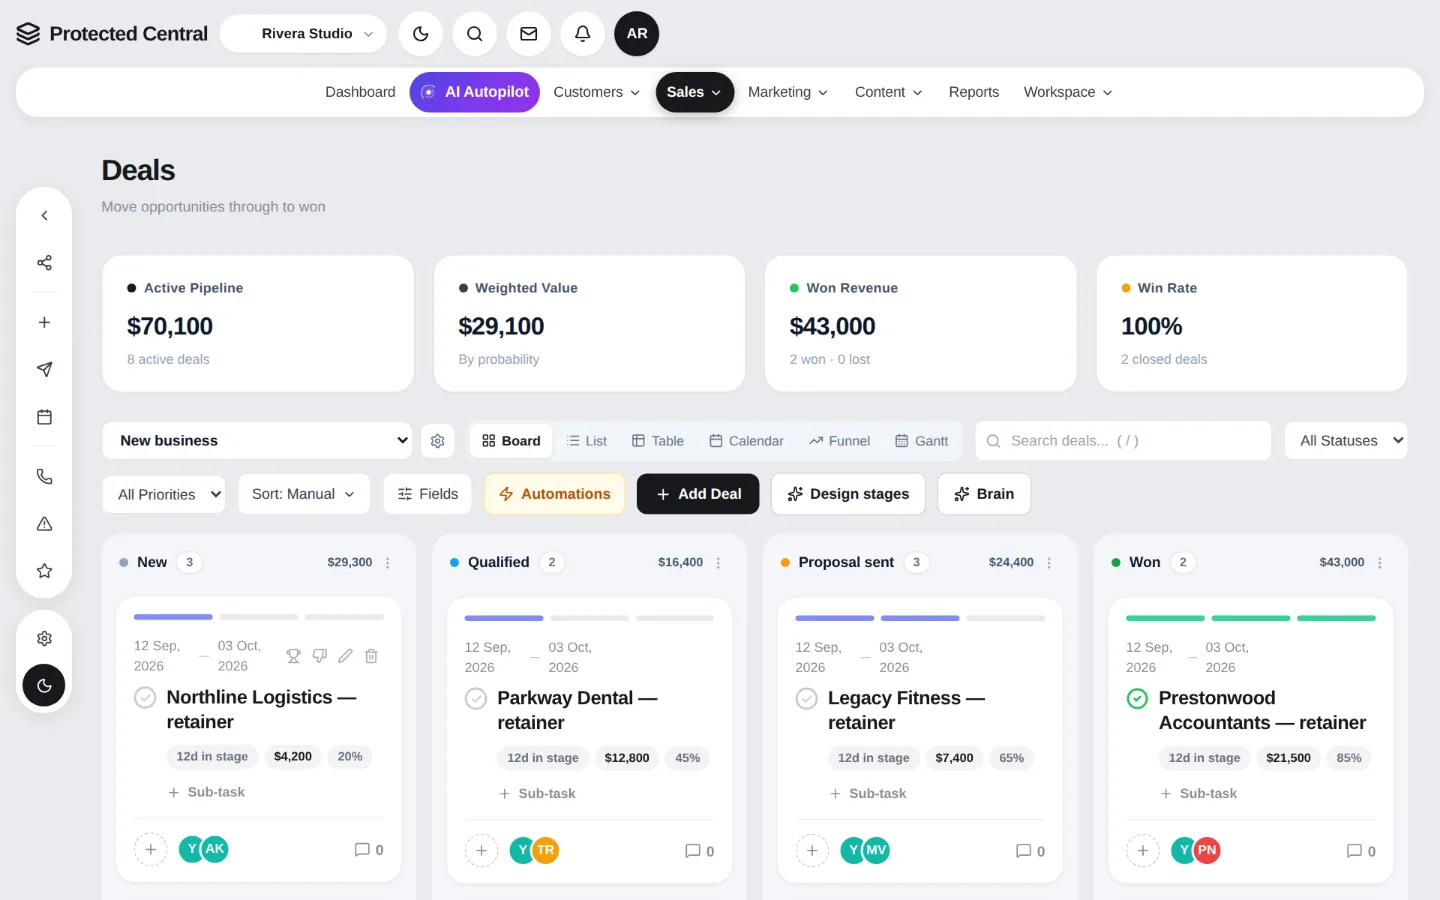
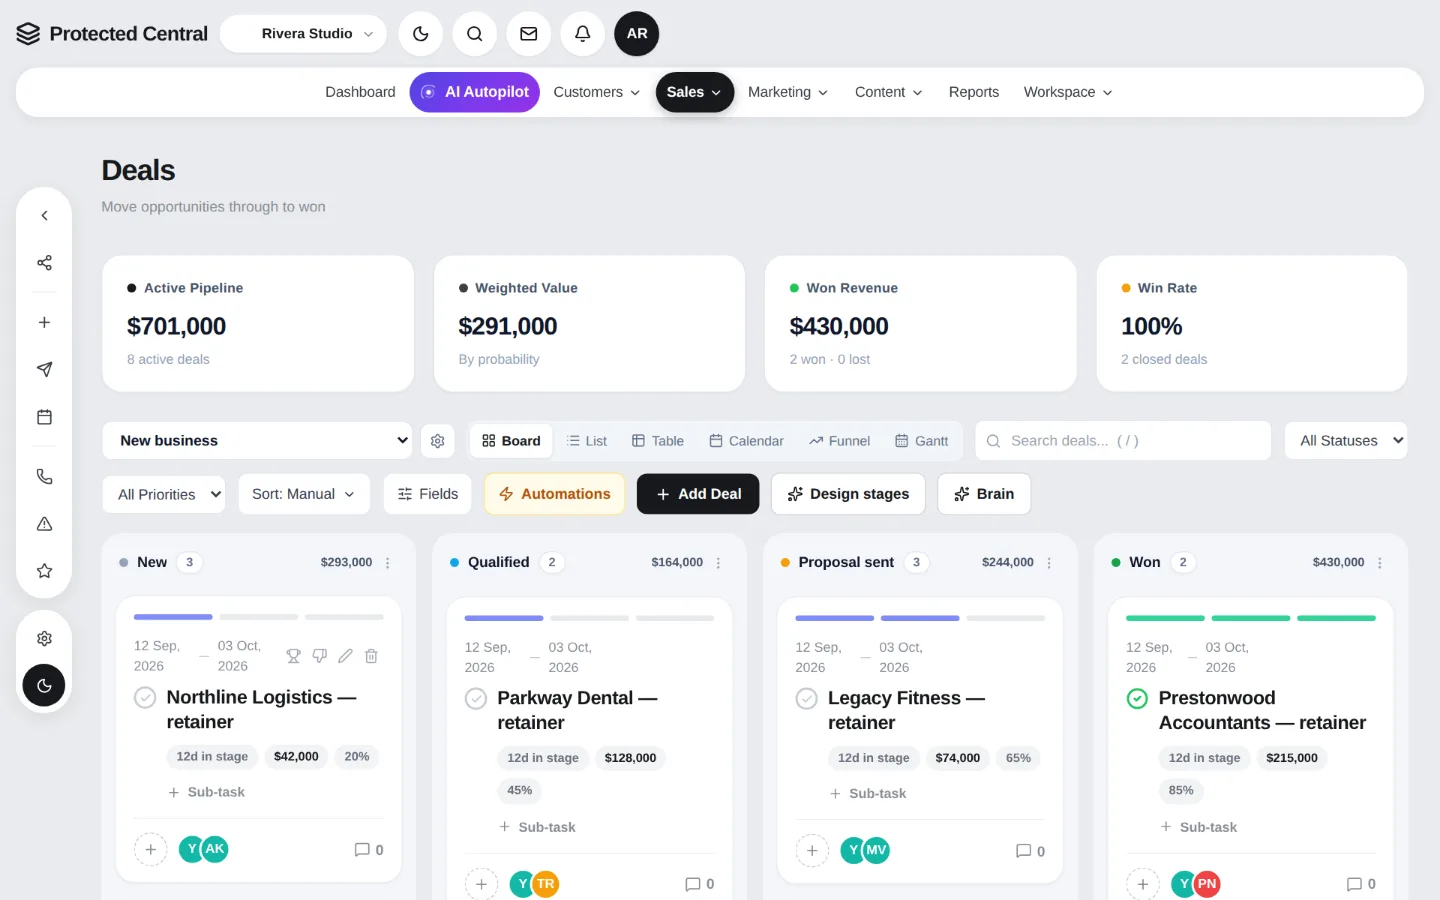
Site reels: readable on a phone, and a busier sample workspace
On a phone a 1440-wide screen was drawn at under a quarter of its size. The
frame is now taller there and the picture shown at about twice the scale,
starting at its top-left and panning slowly to the right edge while it is
held (7.6s instead of 5.2s); reduced motion keeps the readable crop without
the pan. The pan rule is nested under the motion query so the in-app motion
override cannot drop its width limit.

The sample workspace the screens are taken of now looks like an established
agency: $701k open pipeline, $430k won, funnels with six-figure revenue,
sub-accounts at $897-$2,497 a month. The home page says under the first
screen that these are a sample workspace with example data. The dashboard
shot is framed on the week's figures and the notification pop-ups are hidden
from every capture.

Claude-Session: https://claude.ai/code/session_01FpybujBGSRe4WzAZZq322K

diff --git a/src/components/Site/ShotReel.tsx b/src/components/Site/ShotReel.tsx
@@ -35,6 +35,10 @@ import { motionReduced } from '../../services/motion';
 import type { ReelShot } from './reels';
 
 const HOLD_MS = 5200;
+/* On a phone a screen is shown larger and panned across (see site.css), so
+   it needs longer to be read: the pan is the time it takes to follow. */
+const HOLD_NARROW_MS = 7600;
+const narrow = () => typeof window !== 'undefined' && !!window.matchMedia?.('(max-width: 760px)').matches;
 
 const src = (file: string) =>
   `${(import.meta.env.BASE_URL || '/').replace(/\/$/, '')}/site/reel/${file}.webp`;
@@ -54,6 +58,7 @@ export default function ShotReel({
   const [inView, setInView] = useState(false);
   const [held, setHeld] = useState(false);
   const [still] = useState(() => motionReduced());
+  const [hold] = useState(() => (narrow() ? HOLD_NARROW_MS : HOLD_MS));
   const box = useRef<HTMLDivElement | null>(null);
   const many = shots.length > 1;
 
@@ -71,9 +76,9 @@ export default function ShotReel({
   useEffect(() => {
     if (!many || still || !inView || held) return;
     if (typeof document !== 'undefined' && document.visibilityState === 'hidden') return;
-    const t = window.setTimeout(() => setAt(i => (i + 1) % shots.length), HOLD_MS);
+    const t = window.setTimeout(() => setAt(i => (i + 1) % shots.length), hold);
     return () => window.clearTimeout(t);
-  }, [at, many, still, inView, held, shots.length]);
+  }, [at, many, still, inView, held, shots.length, hold]);
 
   const go = (i: number) => setAt((i + shots.length) % shots.length);
   const shot = shots[at] ?? shots[0];
@@ -82,6 +87,7 @@ export default function ShotReel({
     <div
       className={`dc-reel${inView ? ' in-view' : ''}${held ? ' held' : ''}${many ? '' : ' single'}`}
       ref={box}
+      style={{ '--hold': `${hold}ms` } as React.CSSProperties}
       role="group"
       aria-roledescription="carousel"
       aria-label={label}
